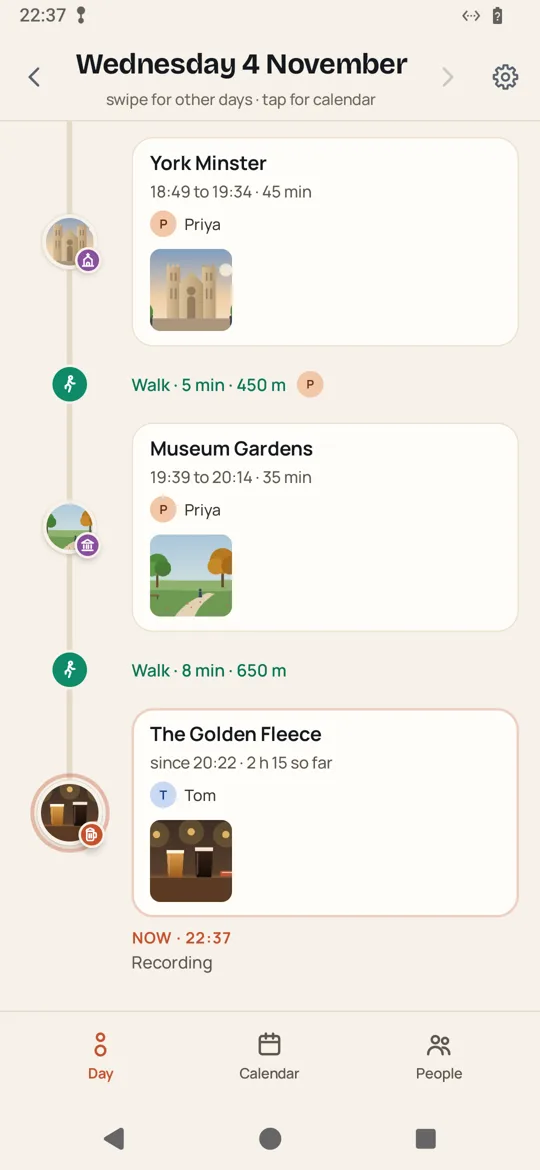
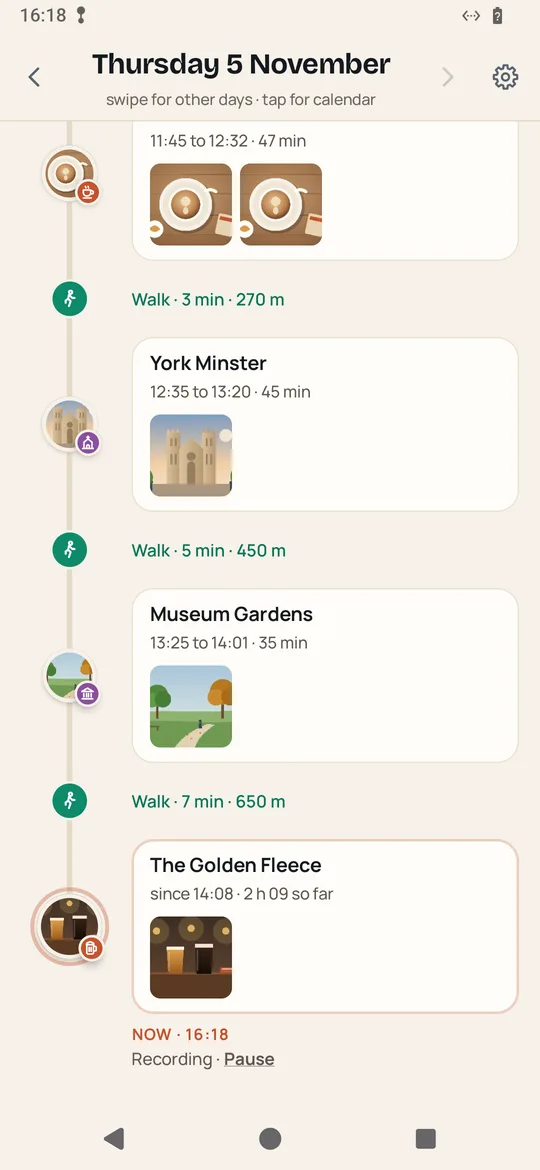
Whereabouts page: privacy for 0.3.1 (web pictures opt-in, no Bluetooth, pause and off), no people, new screens
Claude-Session: https://claude.ai/code/session_013ninAqfghc3x8hMr7CB3pE

diff --git a/whereabouts/privacy.html b/whereabouts/privacy.html
@@ -13,10 +13,10 @@
 </head>
 <body>
 <h1>Whereabouts: privacy policy</h1>
-<p>Last updated 4 November 2026.</p>
+<p>Last updated 5 November 2026.</p>
 <p>Whereabouts (the Android app <code>uk.adamclements.whereabouts</code>) records where you go and how you get
 there, all day, and shows each day as a timeline. This page says what it reads, what it keeps and the one thing
-it sends.</p>
+it can send, only if you turn it on.</p>
 
 <h2>Your days stay on your phone</h2>
 <ul>
@@ -25,27 +25,30 @@ it sends.</p>
       records the places you go and the journeys between them without you pressing anything.</li>
   <li><b>Steps.</b> With the Physical activity permission it reads the phone's step counter, to tell walking from
       running and to notice when you set off.</li>
-  <li><b>Nearby devices.</b> If you allow it, every 5 minutes it listens for 10 seconds for Bluetooth devices
-      nearby (watches and earbuds), so it can show who you were with. It keeps the devices' addresses and names
-      and where they were seen. Strangers' phones, whose addresses change every few minutes, are deleted after a
-      day.</li>
   <li><b>Your photos (optional).</b> If you allow it, it reads when your photos were taken, to put them on your
       days, and shows small thumbnails of them. It only reads them and never changes them. A small copy of one
       of your photos may be kept as a place's picture. On Android 14 and later you can allow just some photos.</li>
   <li><b>Place names</b> (cafés, pubs, shops, stations and villages in Great Britain, from OpenStreetMap and
       Overture Maps) come with the app and are looked up on the phone.</li>
-  <li>All of this, and the names, notes and people you add, is kept only in the app's own storage on your
+  <li>All of this, and the names and notes you add, is kept only in the app's own storage on your
       phone. It is never sold, never used for adverts and never sent to us: Whereabouts has no server.</li>
+  <li>You can pause recording until the next morning, or turn it off until you turn it back on (Settings,
+      Recording). While paused or off, nothing is recorded.</li>
   <li>It is left out of Android's cloud backup. Android's phone-to-phone transfer, when you move to a new
       phone, can copy it across. Settings has Forget a day and Forget everything; uninstalling the app or
       clearing its data removes it all.</li>
+  <li>Versions before 0.3.1 also listened for nearby Bluetooth devices, to show who you were with. That
+      feature has gone and nothing is scanned now; what was recorded then stays on the phone, unused, until
+      you use Forget a day or Forget everything.</li>
 </ul>
 
-<h2>The one thing that leaves the phone: pictures of places</h2>
-<p>When you've named a place and none of your photos from there can stand for it, Whereabouts asks Wikimedia for
+<h2>The one thing that can leave the phone, if you turn it on: pictures of places</h2>
+<p>This is off unless you turn it on (in set-up, in a place's "Photo for…" sheet, or in Settings,
+"Photos of places from the web"). With it off, nothing leaves the phone at all.</p>
+<p>With it on, when you've named a place and none of your photos from there can stand for it, Whereabouts asks Wikimedia for
 a picture of it (when it's named, and again later if none was found). It sends the place's name and its position, rounded to about 100 metres, to Wikidata's query
 service (<code>query.wikidata.org</code>) and the Wikimedia Commons API (<code>commons.wikimedia.org</code>), over
-HTTPS, and fetches the picture from <code>upload.wikimedia.org</code>.</p>
+HTTPS, and fetches the picture from <code>thumb.wikimedia.org</code> or <code>upload.wikimedia.org</code>.</p>
 <ul>
   <li>It never asks about your home, about Home or Work if you haven't given them a name, or about a place you've
       marked as someone's home. (A named Work place is looked up like any other.)</li>
@@ -55,24 +58,24 @@ HTTPS, and fetches the picture from <code>upload.wikimedia.org</code>.</p>
       <a href="https://foundation.wikimedia.org/wiki/Policy:Privacy_policy">Wikimedia Foundation's privacy
       policy</a>.</li>
   <li>The answer is kept on the phone; a place that had no picture isn't asked about again for 30 days.</li>
-  <li>You can turn it off: Settings, "Photos of places from the web". Then nothing leaves the phone at all.</li>
+  <li>A name the app only guessed is never sent: only names you've given.</li>
+  <li>You can turn it off again at any time: Settings, "Photos of places from the web".</li>
 </ul>
 
 <h2>What Whereabouts doesn't do</h2>
 <ul>
   <li>No adverts, no analytics, no crash reporting, no accounts, no sign-in.</li>
-  <li>Nothing is sold or shared with anyone, apart from the picture requests to Wikimedia above.</li>
+  <li>Nothing is sold or shared with anyone, apart from the picture requests to Wikimedia above, if you turn them on.</li>
 </ul>
 
 <h2>Permissions</h2>
 <ul>
   <li><b>Location, all the time:</b> to record your day in the background.</li>
   <li><b>Physical activity:</b> steps, to tell a walk from a run.</li>
-  <li><b>Nearby devices (optional):</b> the Bluetooth scans for who you're with.</li>
   <li><b>Photos (optional):</b> to put your photos on your days. You can allow only some.</li>
   <li><b>Notifications:</b> the quiet notification Android needs while it records.</li>
   <li><b>Run at start-up:</b> so recording carries on after the phone restarts.</li>
-  <li><b>Internet:</b> only for the pictures of places above.</li>
+  <li><b>Internet:</b> only for the pictures of places above, if you turn them on.</li>
 </ul>
 
 <p>Questions: Adam Clements, <a href="mailto:adam.clements@gmail.com">adam.clements@gmail.com</a>.</p>

diff --git a/whereabouts/index.html b/whereabouts/index.html
@@ -66,12 +66,12 @@ footer a { white-space: nowrap; }
 
   <div class="points">
     <section class="point">
-      <img src="screen-1.webp" alt="A day in York: home, a run, a café with Priya, York Minster, each a circle on a line" width="540" height="1170">
+      <img src="screen-1.webp" alt="A day in York: home, a run, a café, York Minster, each a circle on a line" width="540" height="1170">
       <div><h2>It makes itself</h2><p>A circle for every place you stopped, sized by how long, and a line for each journey.</p></div>
     </section>
     <section class="point">
-      <img src="screen-2.webp" alt="The end of today: photos at Museum Gardens, and now at The Golden Fleece with Tom" width="540" height="1170">
-      <div><h2>Photos and people</h2><p>The photos you took, where you took them, and who you were with.</p></div>
+      <img src="screen-2.webp" alt="The end of today: photos at Museum Gardens, and now at The Golden Fleece" width="540" height="1170">
+      <div><h2>Your photos, where you took them</h2><p>The photos you took sit on the day, at the places you took them.</p></div>
     </section>
     <section class="point">
       <img src="screen-3.webp" alt="October's calendar: small coloured circles for the places of each day" width="540" height="1170">
